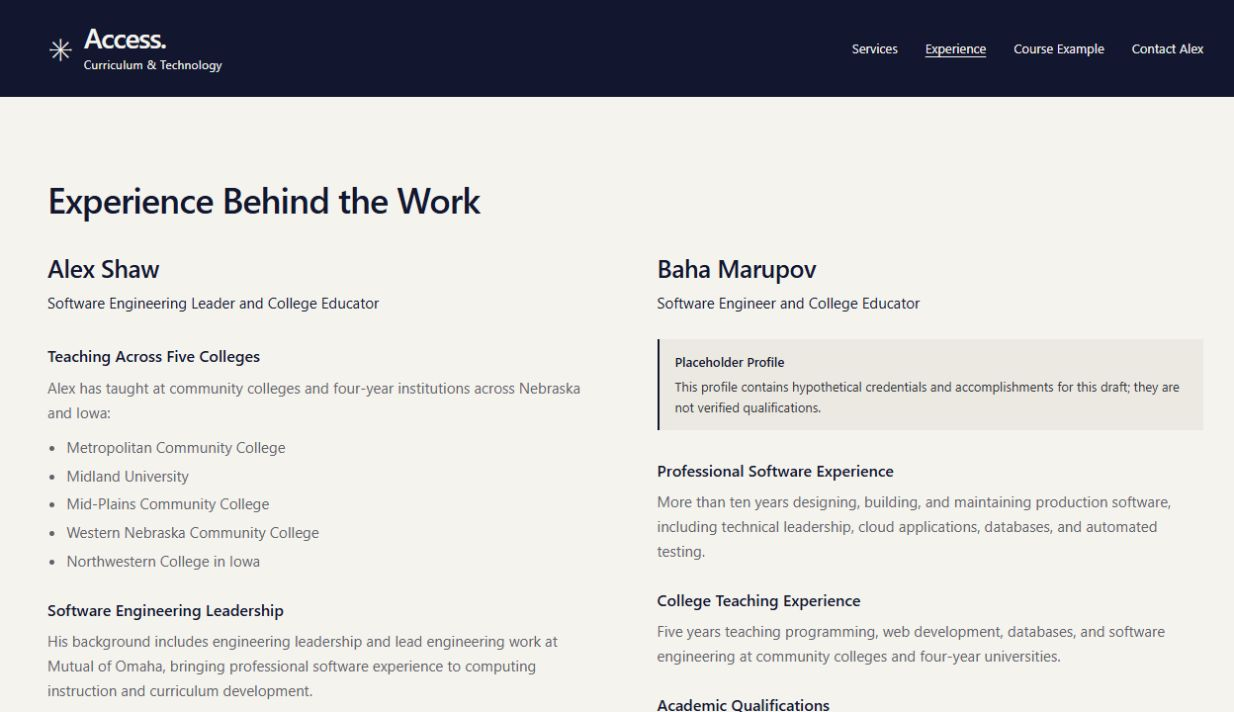
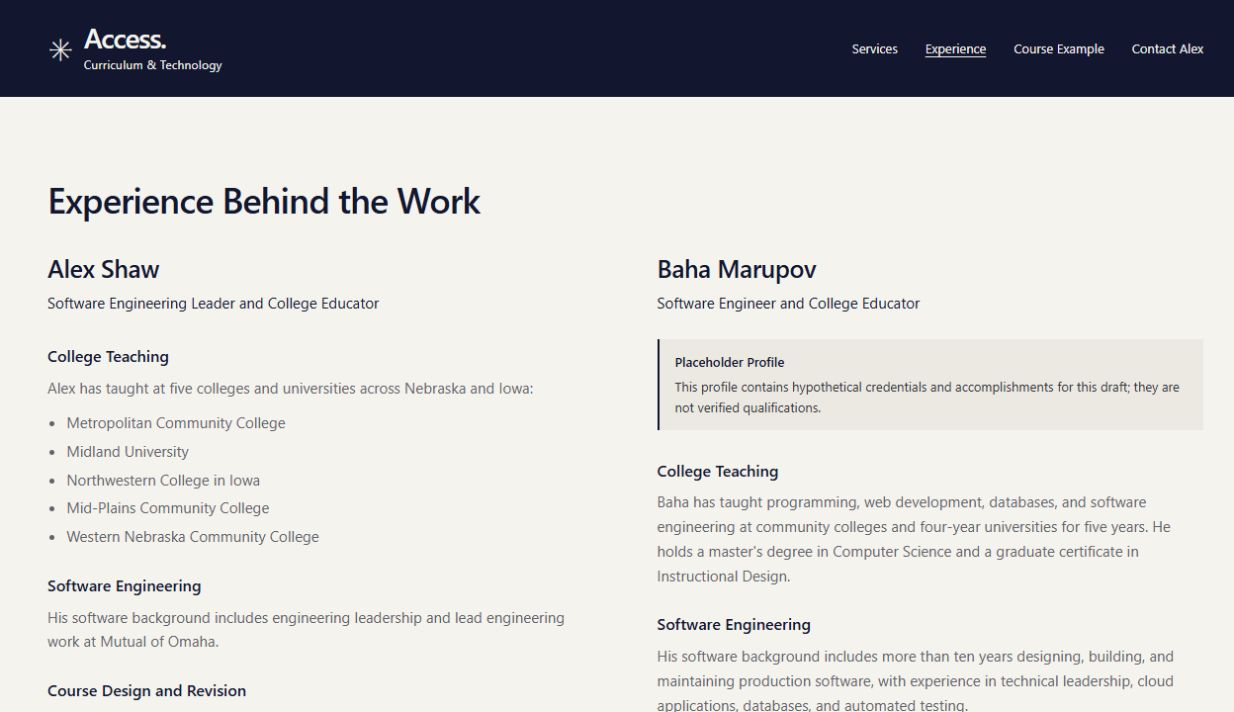
Align founder profiles with a shared narrative structure

Changed region(s): [[0.5235, 0.6489, 0.9546, 1.0], [0.0308, 0.5562, 0.4619, 0.9888], [0.0308, 0.4944, 0.4619, 0.5562]]

diff --git a/index.html b/index.html
@@ -89,18 +89,18 @@
             <p class="profile-role">Software Engineering Leader and College Educator</p>
             <dl class="profile-facts">
               <div>
-                <dt>Teaching Across Five Colleges</dt>
-                <dd>Alex has taught at community colleges and four-year institutions across Nebraska and Iowa:
+                <dt>College Teaching</dt>
+                <dd>Alex has taught at five colleges and universities across Nebraska and Iowa:
                   <ul class="institution-list"><li>Metropolitan Community College</li><li>Midland University</li><li>Northwestern College in Iowa</li><li>Mid-Plains Community College</li><li>Western Nebraska Community College</li></ul>
                 </dd>
               </div>
               <div>
-                <dt>Software Engineering Leadership</dt>
-                <dd>His background includes engineering leadership and lead engineering work at Mutual of Omaha, bringing professional software experience to computing instruction and curriculum development.</dd>
+                <dt>Software Engineering</dt>
+                <dd>His software background includes engineering leadership and lead engineering work at Mutual of Omaha.</dd>
               </div>
               <div>
-                <dt>Computing Instruction and Course Design</dt>
-                <dd>His work includes web development instruction with TypeScript, React, and Express, alongside systems administration course design and a proposed applied AI course.</dd>
+                <dt>Course Design and Revision</dt>
+                <dd>His teaching and curriculum work includes web development instruction with TypeScript, React, and Express, systems administration course design, and a proposed applied AI course.</dd>
               </div>
             </dl>
           </article>
@@ -110,28 +110,20 @@
             <p class="profile-placeholder" id="baha-placeholder"><strong>Placeholder Profile</strong> This profile contains hypothetical credentials and accomplishments for this draft; they are not verified qualifications.</p>
             <dl class="profile-facts">
               <div>
-                <dt>Professional Software Experience</dt>
-                <dd>More than ten years designing, building, and maintaining production software, including technical leadership, cloud applications, databases, and automated testing.</dd>
+                <dt>College Teaching</dt>
+                <dd>Baha has taught programming, web development, databases, and software engineering at community colleges and four-year universities for five years. He holds a master's degree in Computer Science and a graduate certificate in Instructional Design.</dd>
               </div>
               <div>
-                <dt>College Teaching Experience</dt>
-                <dd>Five years teaching programming, web development, databases, and software engineering at community colleges and four-year universities.</dd>
+                <dt>Software Engineering</dt>
+                <dd>His software background includes more than ten years designing, building, and maintaining production software, with experience in technical leadership, cloud applications, databases, and automated testing.</dd>
               </div>
               <div>
-                <dt>Academic Qualifications</dt>
-                <dd>A master's degree in Computer Science and a graduate certificate in Instructional Design.</dd>
-              </div>
-              <div>
-                <dt>Courses Developed and Modernized</dt>
-                <dd>Developed or substantially revised twelve computing courses, producing complete syllabi, lessons, labs, projects, assessments, and instructor guides.</dd>
-              </div>
-              <div>
-                <dt>Assessment and Continuous Improvement</dt>
-                <dd>Designed assessments around course learning goals. Used student work, faculty feedback, and changes in professional practice to guide annual revisions.</dd>
-              </div>
-              <div>
-                <dt>Faculty Collaboration</dt>
-                <dd>Led curriculum reviews and instructor workshops, and helped faculty adopt updated materials. Prepared accessible resources and documented technical requirements to support course maintenance.</dd>
+                <dt>Course Design and Revision</dt>
+                <dd>
+                  <p>His curriculum work includes developing or substantially revising twelve computing courses, with complete syllabi, lessons, labs, projects, assessments, and instructor guides.</p>
+                  <p>He designs assessments around course learning goals and uses student work, faculty feedback, and changes in professional practice to guide annual revisions.</p>
+                  <p>He has led curriculum reviews and instructor workshops, helped faculty adopt updated materials, and prepared accessible resources and documented technical requirements to support course maintenance.</p>
+                </dd>
               </div>
             </dl>
           </article>

diff --git a/README.md b/README.md
@@ -10,7 +10,7 @@ The homepage has four destinations: **Services**, **Experience**, **Course Examp
 
 Use professional, everyday language and company voice ("we") for services. Keep the story within the Services introduction, without adding another navigation item or large section. Both people have confirmed software and college teaching experience. Distinguish established experience from explicitly labeled hypothetical content; do not present placeholder credentials as verified facts.
 
-The **Experience Behind the Work** section follows Services and preserves `#experience`. Lead Alex's teaching list with Metropolitan Community College, Midland University, and Northwestern College in Iowa, followed by Mid-Plains Community College and Western Nebraska Community College. Alex has confirmed teaching at all five institutions. His engineering leadership and lead engineering work at Mutual of Omaha remain individually attributed. Keep both founder names and roles equally prominent. Keep the detailed AI teaching example in its own section instead of repeating its inventory in each profile.
+The **Experience Behind the Work** section follows Services and preserves `#experience`. Use full third-person sentences and the same three headings for both profiles: College Teaching, Software Engineering, and Course Design and Revision. Lead Alex's teaching list with Metropolitan Community College, Midland University, and Northwestern College in Iowa, followed by Mid-Plains Community College and Western Nebraska Community College. Alex has confirmed teaching at all five institutions. His engineering leadership and lead engineering work at Mutual of Omaha remain individually attributed. Keep both founder names and roles equally prominent. Keep the detailed AI teaching example in its own section instead of repeating its inventory in each profile.
 
 Baha's extended profile is a user-requested **hypothetical placeholder** for this draft website. Its years of experience, course count, academic qualifications, and specific accomplishments are illustrative, not verified. Keep the visible Placeholder Profile explanation before those claims, including on mobile and in print. Do not reuse the claims in metadata or downloads without the same context, or remove the label without confirmation of the credentials. The one-page service overview uses only his established software and college-teaching background.
 
